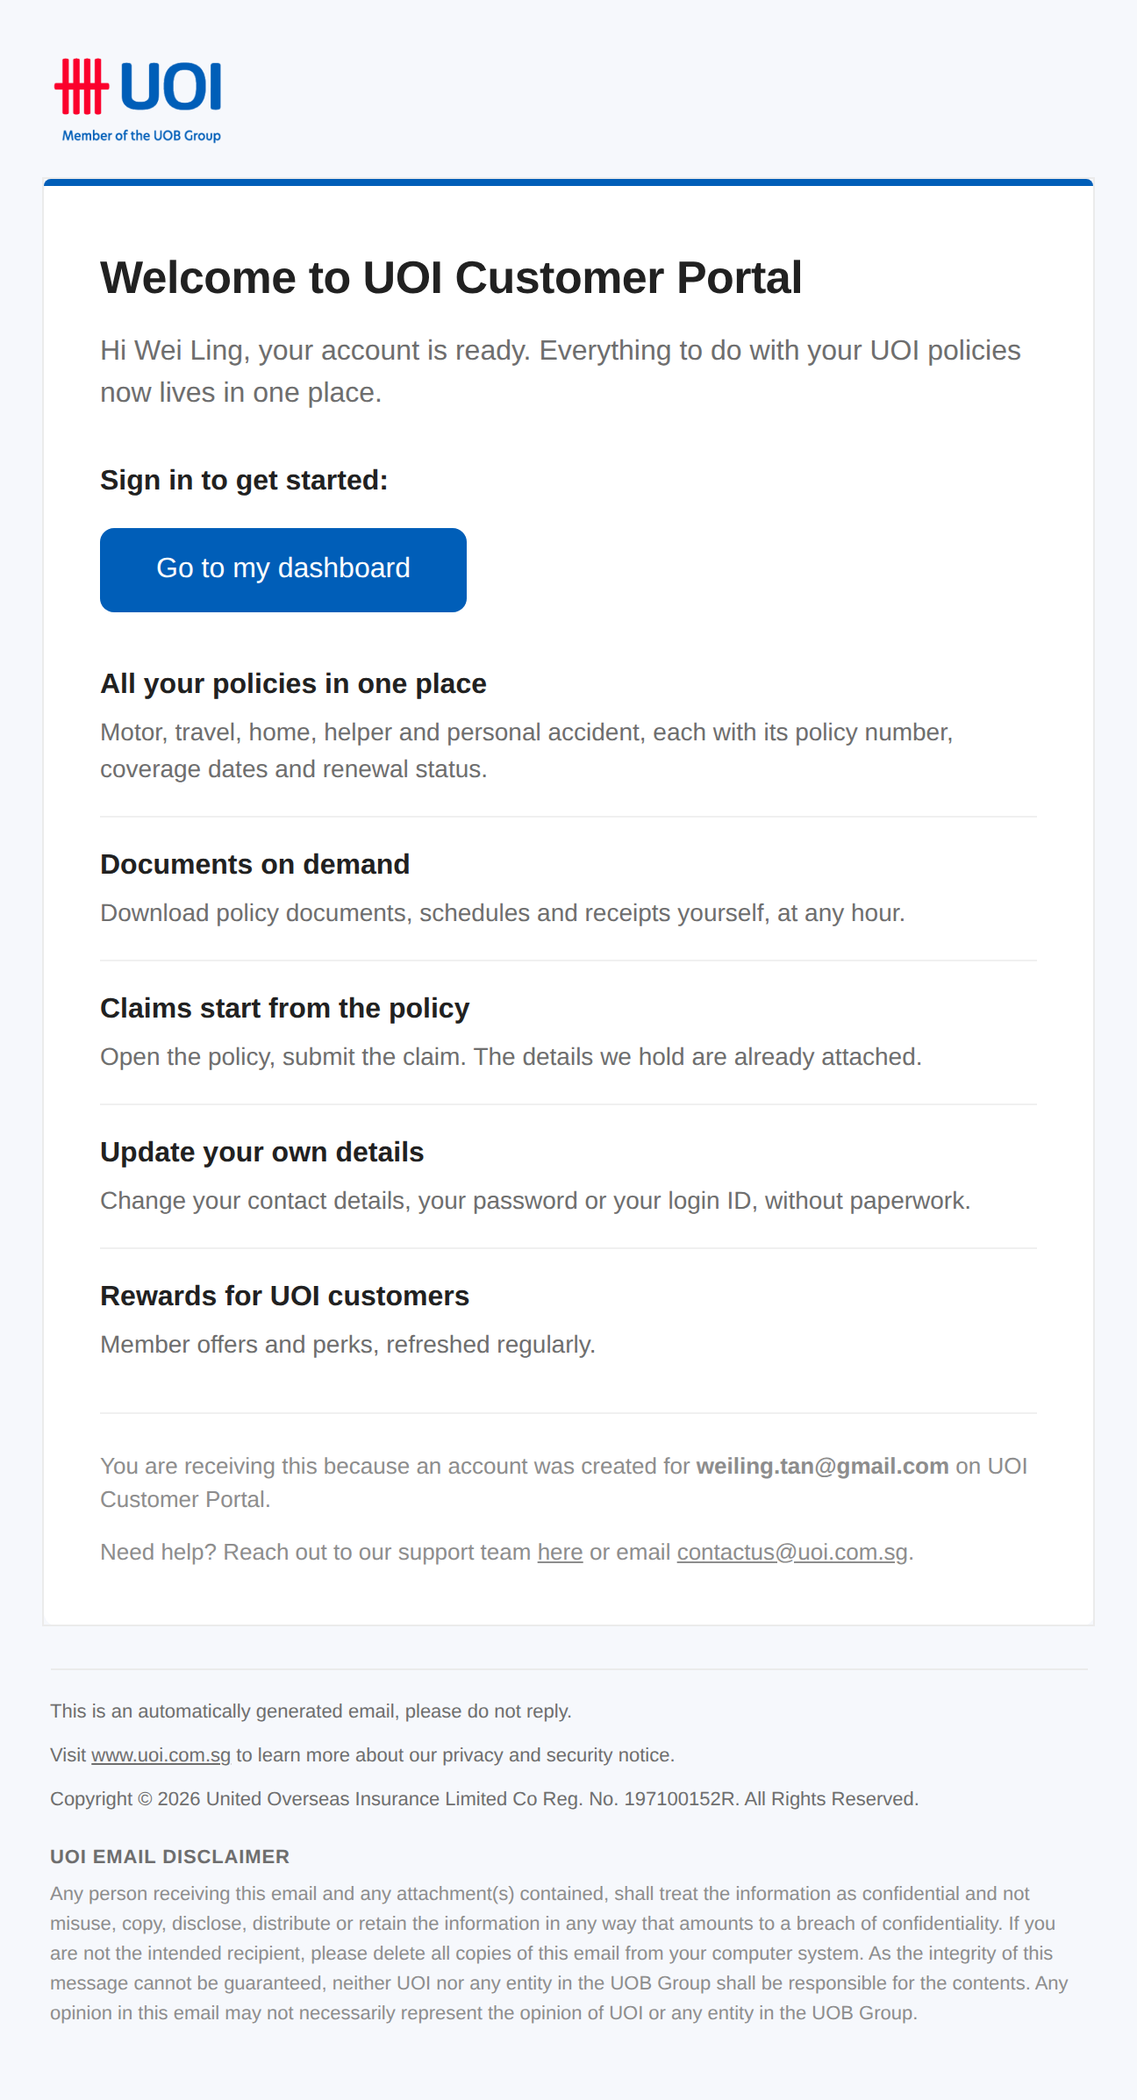
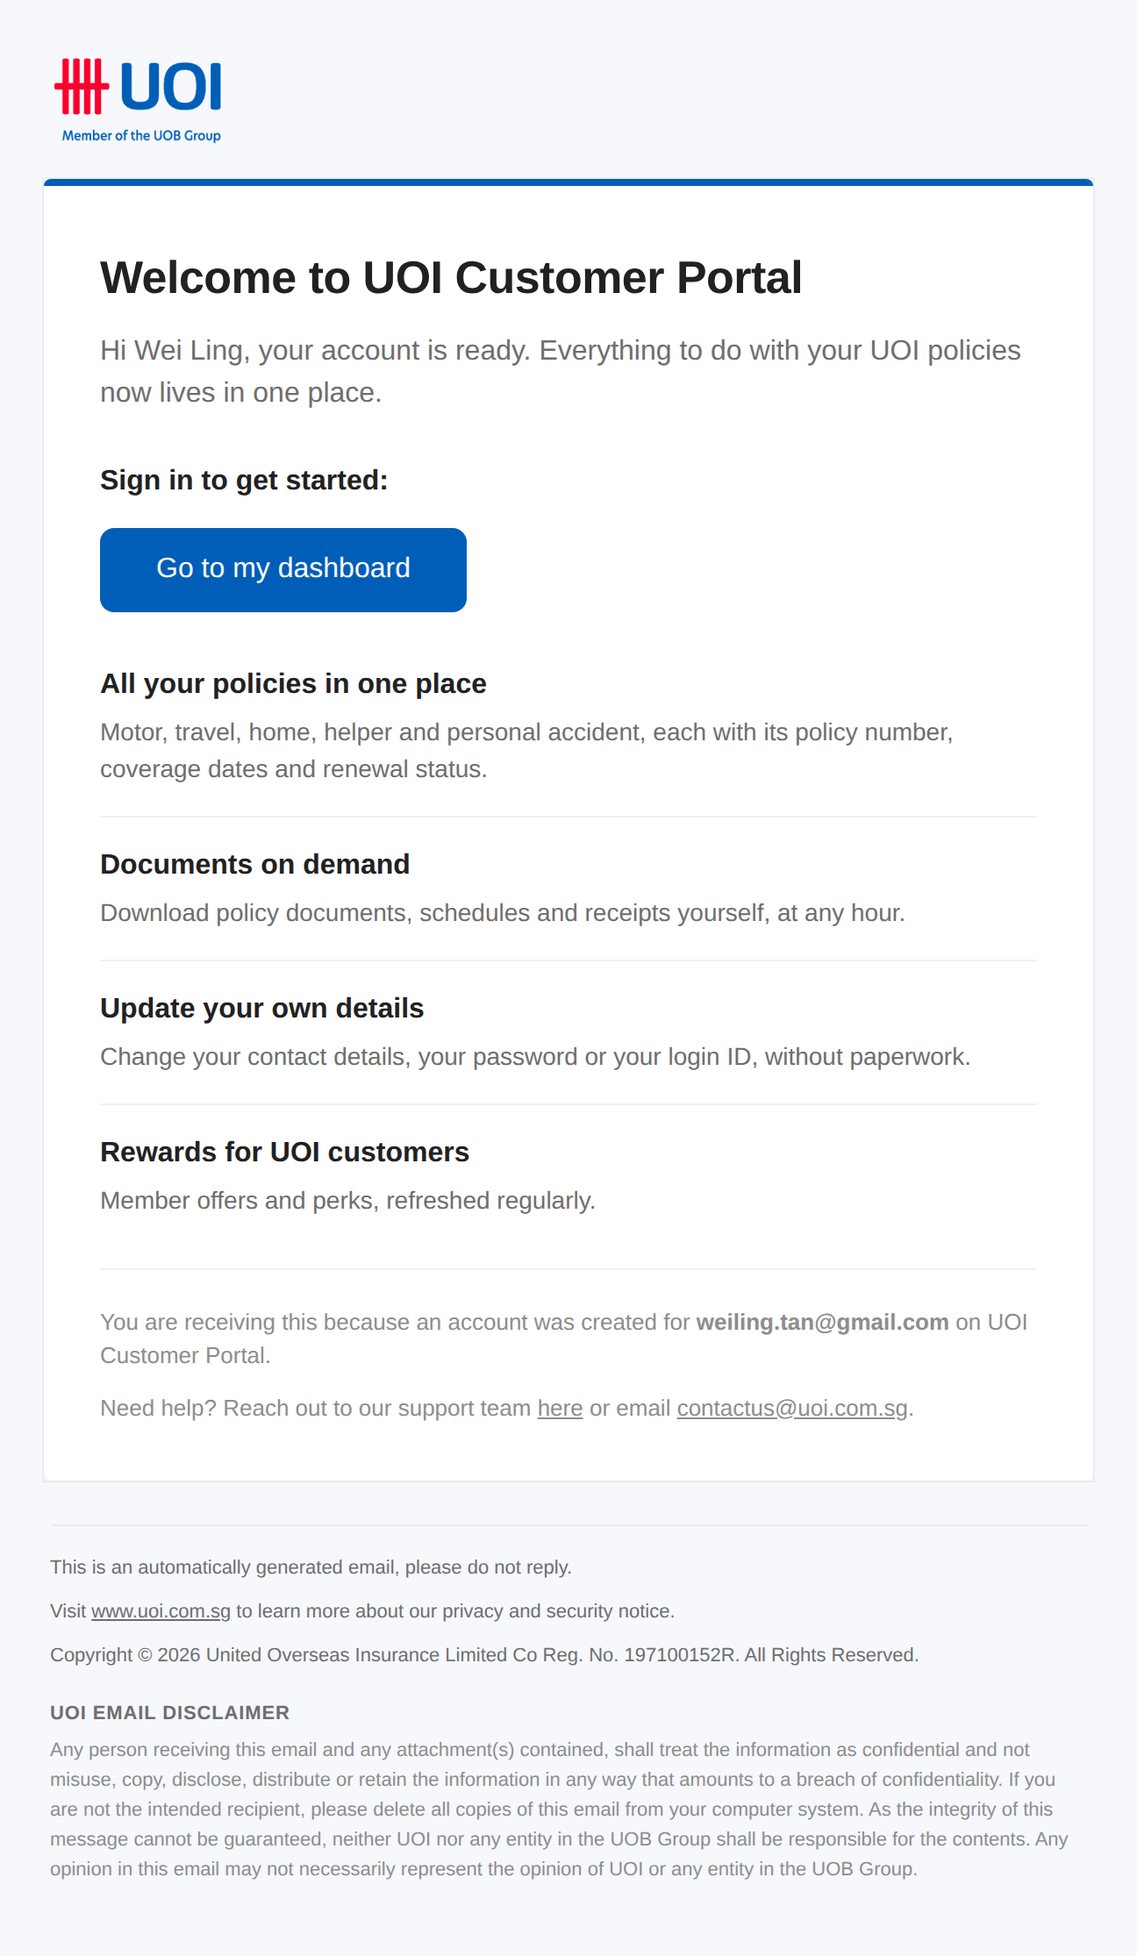
Point the support link at WhatsApp; drop the claims benefit
The 'here' link in all five emails now opens the same WhatsApp support line the
portal uses (AuthUI.tsx SUPPORT_URL), replacing the guessed /help path.
Ampersands are escaped, since these files declare XHTML and a raw & in an
attribute is invalid there.

Removes the 'Claims start from the policy' row from the welcome email, leaving
four benefits.

Claude-Session: https://claude.ai/code/session_01Ugy4CsjXngQbuZH3dm3bHN

diff --git a/emails/preview.html b/emails/preview.html
@@ -353,7 +353,7 @@
                 <tr>
                   <td style=&quot;border-top:1px solid #F0F0F0; padding-top:20px;&quot;>
                 <p style=&quot;margin:0px 0 0 0; font-family:'Noto Sans', -apple-system, BlinkMacSystemFont, 'Segoe UI', Arial, Helvetica, sans-serif;
-                          font-size:13px; line-height:1.5; color:#8D8D8D;&quot;>Need help? Reach out to our support team <a href=&quot;https://portal.uoi.com.sg/help&quot; style=&quot;color:#8D8D8D; text-decoration:underline;&quot;>here</a> or email <a href=&quot;mailto:contactus@uoi.com.sg&quot; style=&quot;color:#8D8D8D; text-decoration:underline;&quot;>contactus@uoi.com.sg</a>.</p>
+                          font-size:13px; line-height:1.5; color:#8D8D8D;&quot;>Need help? Reach out to our support team <a href=&quot;https://api.whatsapp.com/send/?phone=6580814843&amp;text&amp;type=phone_number&amp;app_absent=0&quot; style=&quot;color:#8D8D8D; text-decoration:underline;&quot;>here</a> or email <a href=&quot;mailto:contactus@uoi.com.sg&quot; style=&quot;color:#8D8D8D; text-decoration:underline;&quot;>contactus@uoi.com.sg</a>.</p>
                   </td>
                 </tr>
               </table>
@@ -543,7 +543,7 @@
                 <p style=&quot;margin:0px 0 0 0; font-family:'Noto Sans', -apple-system, BlinkMacSystemFont, 'Segoe UI', Arial, Helvetica, sans-serif;
                           font-size:13px; line-height:1.5; color:#8D8D8D;&quot;>Button not working? Paste this into your browser:<br /><span style=&quot;color:#0D6EFD; word-break:break-all;&quot;>https://portal.uoi.com.sg/reset?t=a7f3c2e9</span></p>
                 <p style=&quot;margin:10px 0 0 0; font-family:'Noto Sans', -apple-system, BlinkMacSystemFont, 'Segoe UI', Arial, Helvetica, sans-serif;
-                          font-size:13px; line-height:1.5; color:#8D8D8D;&quot;>Need help? Reach out to our support team <a href=&quot;https://portal.uoi.com.sg/help&quot; style=&quot;color:#8D8D8D; text-decoration:underline;&quot;>here</a> or email <a href=&quot;mailto:contactus@uoi.com.sg&quot; style=&quot;color:#8D8D8D; text-decoration:underline;&quot;>contactus@uoi.com.sg</a>.</p>
+                          font-size:13px; line-height:1.5; color:#8D8D8D;&quot;>Need help? Reach out to our support team <a href=&quot;https://api.whatsapp.com/send/?phone=6580814843&amp;text&amp;type=phone_number&amp;app_absent=0&quot; style=&quot;color:#8D8D8D; text-decoration:underline;&quot;>here</a> or email <a href=&quot;mailto:contactus@uoi.com.sg&quot; style=&quot;color:#8D8D8D; text-decoration:underline;&quot;>contactus@uoi.com.sg</a>.</p>
                   </td>
                 </tr>
               </table>
@@ -712,7 +712,7 @@
                 <p style=&quot;margin:0px 0 0 0; font-family:'Noto Sans', -apple-system, BlinkMacSystemFont, 'Segoe UI', Arial, Helvetica, sans-serif;
                           font-size:13px; line-height:1.5; color:#8D8D8D;&quot;>If you didn't sign up for UOI Customer Portal, ignore this email. No account will be created.</p>
                 <p style=&quot;margin:10px 0 0 0; font-family:'Noto Sans', -apple-system, BlinkMacSystemFont, 'Segoe UI', Arial, Helvetica, sans-serif;
-                          font-size:13px; line-height:1.5; color:#8D8D8D;&quot;>Need help? Reach out to our support team <a href=&quot;https://portal.uoi.com.sg/help&quot; style=&quot;color:#8D8D8D; text-decoration:underline;&quot;>here</a> or email <a href=&quot;mailto:contactus@uoi.com.sg&quot; style=&quot;color:#8D8D8D; text-decoration:underline;&quot;>contactus@uoi.com.sg</a>.</p>
+                          font-size:13px; line-height:1.5; color:#8D8D8D;&quot;>Need help? Reach out to our support team <a href=&quot;https://api.whatsapp.com/send/?phone=6580814843&amp;text&amp;type=phone_number&amp;app_absent=0&quot; style=&quot;color:#8D8D8D; text-decoration:underline;&quot;>here</a> or email <a href=&quot;mailto:contactus@uoi.com.sg&quot; style=&quot;color:#8D8D8D; text-decoration:underline;&quot;>contactus@uoi.com.sg</a>.</p>
                   </td>
                 </tr>
               </table>
@@ -891,7 +891,7 @@
                 <p style=&quot;margin:0px 0 0 0; font-family:'Noto Sans', -apple-system, BlinkMacSystemFont, 'Segoe UI', Arial, Helvetica, sans-serif;
                           font-size:13px; line-height:1.5; color:#8D8D8D;&quot;>Until you confirm, keep signing in with your current login ID.</p>
                 <p style=&quot;margin:10px 0 0 0; font-family:'Noto Sans', -apple-system, BlinkMacSystemFont, 'Segoe UI', Arial, Helvetica, sans-serif;
-                          font-size:13px; line-height:1.5; color:#8D8D8D;&quot;>Need help? Reach out to our support team <a href=&quot;https://portal.uoi.com.sg/help&quot; style=&quot;color:#8D8D8D; text-decoration:underline;&quot;>here</a> or email <a href=&quot;mailto:contactus@uoi.com.sg&quot; style=&quot;color:#8D8D8D; text-decoration:underline;&quot;>contactus@uoi.com.sg</a>.</p>
+                          font-size:13px; line-height:1.5; color:#8D8D8D;&quot;>Need help? Reach out to our support team <a href=&quot;https://api.whatsapp.com/send/?phone=6580814843&amp;text&amp;type=phone_number&amp;app_absent=0&quot; style=&quot;color:#8D8D8D; text-decoration:underline;&quot;>here</a> or email <a href=&quot;mailto:contactus@uoi.com.sg&quot; style=&quot;color:#8D8D8D; text-decoration:underline;&quot;>contactus@uoi.com.sg</a>.</p>
                   </td>
                 </tr>
               </table>
@@ -1083,15 +1083,6 @@
                   <td style=&quot;border-top:1px solid #F0F0F0;
                              padding:16px 0 16px 0;&quot;>
                     <p style=&quot;margin:0; font-family:'Noto Sans', -apple-system, BlinkMacSystemFont, 'Segoe UI', Arial, Helvetica, sans-serif; font-size:16px; line-height:1.5;
-                              font-weight:600; color:#212121;&quot;>Claims start from the policy</p>
-                    <p style=&quot;margin:4px 0 0 0; font-family:'Noto Sans', -apple-system, BlinkMacSystemFont, 'Segoe UI', Arial, Helvetica, sans-serif; font-size:14px;
-                              line-height:1.5; color:#6E6E6E;&quot;>Open the policy, submit the claim. The details we hold are already attached.</p>
-                  </td>
-                </tr>
-                <tr>
-                  <td style=&quot;border-top:1px solid #F0F0F0;
-                             padding:16px 0 16px 0;&quot;>
-                    <p style=&quot;margin:0; font-family:'Noto Sans', -apple-system, BlinkMacSystemFont, 'Segoe UI', Arial, Helvetica, sans-serif; font-size:16px; line-height:1.5;
                               font-weight:600; color:#212121;&quot;>Update your own details</p>
                     <p style=&quot;margin:4px 0 0 0; font-family:'Noto Sans', -apple-system, BlinkMacSystemFont, 'Segoe UI', Arial, Helvetica, sans-serif; font-size:14px;
                               line-height:1.5; color:#6E6E6E;&quot;>Change your contact details, your password or your login ID, without paperwork.</p>
@@ -1116,7 +1107,7 @@
                 <p style=&quot;margin:0px 0 0 0; font-family:'Noto Sans', -apple-system, BlinkMacSystemFont, 'Segoe UI', Arial, Helvetica, sans-serif;
                           font-size:13px; line-height:1.5; color:#8D8D8D;&quot;>You are receiving this because an account was created for <strong>weiling.tan@gmail.com</strong> on UOI Customer Portal.</p>
                 <p style=&quot;margin:10px 0 0 0; font-family:'Noto Sans', -apple-system, BlinkMacSystemFont, 'Segoe UI', Arial, Helvetica, sans-serif;
-                          font-size:13px; line-height:1.5; color:#8D8D8D;&quot;>Need help? Reach out to our support team <a href=&quot;https://portal.uoi.com.sg/help&quot; style=&quot;color:#8D8D8D; text-decoration:underline;&quot;>here</a> or email <a href=&quot;mailto:contactus@uoi.com.sg&quot; style=&quot;color:#8D8D8D; text-decoration:underline;&quot;>contactus@uoi.com.sg</a>.</p>
+                          font-size:13px; line-height:1.5; color:#8D8D8D;&quot;>Need help? Reach out to our support team <a href=&quot;https://api.whatsapp.com/send/?phone=6580814843&amp;text&amp;type=phone_number&amp;app_absent=0&quot; style=&quot;color:#8D8D8D; text-decoration:underline;&quot;>here</a> or email <a href=&quot;mailto:contactus@uoi.com.sg&quot; style=&quot;color:#8D8D8D; text-decoration:underline;&quot;>contactus@uoi.com.sg</a>.</p>
                   </td>
                 </tr>
               </table>

diff --git a/emails/05-welcome.html b/emails/05-welcome.html
@@ -126,15 +126,6 @@
                   <td style="border-top:1px solid #F0F0F0;
                              padding:16px 0 16px 0;">
                     <p style="margin:0; font-family:'Noto Sans', -apple-system, BlinkMacSystemFont, 'Segoe UI', Arial, Helvetica, sans-serif; font-size:16px; line-height:1.5;
-                              font-weight:600; color:#212121;">Claims start from the policy</p>
-                    <p style="margin:4px 0 0 0; font-family:'Noto Sans', -apple-system, BlinkMacSystemFont, 'Segoe UI', Arial, Helvetica, sans-serif; font-size:14px;
-                              line-height:1.5; color:#6E6E6E;">Open the policy, submit the claim. The details we hold are already attached.</p>
-                  </td>
-                </tr>
-                <tr>
-                  <td style="border-top:1px solid #F0F0F0;
-                             padding:16px 0 16px 0;">
-                    <p style="margin:0; font-family:'Noto Sans', -apple-system, BlinkMacSystemFont, 'Segoe UI', Arial, Helvetica, sans-serif; font-size:16px; line-height:1.5;
                               font-weight:600; color:#212121;">Update your own details</p>
                     <p style="margin:4px 0 0 0; font-family:'Noto Sans', -apple-system, BlinkMacSystemFont, 'Segoe UI', Arial, Helvetica, sans-serif; font-size:14px;
                               line-height:1.5; color:#6E6E6E;">Change your contact details, your password or your login ID, without paperwork.</p>
@@ -159,7 +150,7 @@
                 <p style="margin:0px 0 0 0; font-family:'Noto Sans', -apple-system, BlinkMacSystemFont, 'Segoe UI', Arial, Helvetica, sans-serif;
                           font-size:13px; line-height:1.5; color:#8D8D8D;">You are receiving this because an account was created for <strong>{{login_id}}</strong> on UOI Customer Portal.</p>
                 <p style="margin:10px 0 0 0; font-family:'Noto Sans', -apple-system, BlinkMacSystemFont, 'Segoe UI', Arial, Helvetica, sans-serif;
-                          font-size:13px; line-height:1.5; color:#8D8D8D;">Need help? Reach out to our support team <a href="https://portal.uoi.com.sg/help" style="color:#8D8D8D; text-decoration:underline;">here</a> or email <a href="mailto:contactus@uoi.com.sg" style="color:#8D8D8D; text-decoration:underline;">contactus@uoi.com.sg</a>.</p>
+                          font-size:13px; line-height:1.5; color:#8D8D8D;">Need help? Reach out to our support team <a href="https://api.whatsapp.com/send/?phone=6580814843&amp;text&amp;type=phone_number&amp;app_absent=0" style="color:#8D8D8D; text-decoration:underline;">here</a> or email <a href="mailto:contactus@uoi.com.sg" style="color:#8D8D8D; text-decoration:underline;">contactus@uoi.com.sg</a>.</p>
                   </td>
                 </tr>
               </table>

diff --git a/emails/02-forgot-password-reset.html b/emails/02-forgot-password-reset.html
@@ -124,7 +124,7 @@
                 <p style="margin:0px 0 0 0; font-family:'Noto Sans', -apple-system, BlinkMacSystemFont, 'Segoe UI', Arial, Helvetica, sans-serif;
                           font-size:13px; line-height:1.5; color:#8D8D8D;">Button not working? Paste this into your browser:<br /><span style="color:#0D6EFD; word-break:break-all;">{{reset_url}}</span></p>
                 <p style="margin:10px 0 0 0; font-family:'Noto Sans', -apple-system, BlinkMacSystemFont, 'Segoe UI', Arial, Helvetica, sans-serif;
-                          font-size:13px; line-height:1.5; color:#8D8D8D;">Need help? Reach out to our support team <a href="https://portal.uoi.com.sg/help" style="color:#8D8D8D; text-decoration:underline;">here</a> or email <a href="mailto:contactus@uoi.com.sg" style="color:#8D8D8D; text-decoration:underline;">contactus@uoi.com.sg</a>.</p>
+                          font-size:13px; line-height:1.5; color:#8D8D8D;">Need help? Reach out to our support team <a href="https://api.whatsapp.com/send/?phone=6580814843&amp;text&amp;type=phone_number&amp;app_absent=0" style="color:#8D8D8D; text-decoration:underline;">here</a> or email <a href="mailto:contactus@uoi.com.sg" style="color:#8D8D8D; text-decoration:underline;">contactus@uoi.com.sg</a>.</p>
                   </td>
                 </tr>
               </table>

diff --git a/emails/03-registration-otp.html b/emails/03-registration-otp.html
@@ -103,7 +103,7 @@
                 <p style="margin:0px 0 0 0; font-family:'Noto Sans', -apple-system, BlinkMacSystemFont, 'Segoe UI', Arial, Helvetica, sans-serif;
                           font-size:13px; line-height:1.5; color:#8D8D8D;">If you didn't sign up for UOI Customer Portal, ignore this email. No account will be created.</p>
                 <p style="margin:10px 0 0 0; font-family:'Noto Sans', -apple-system, BlinkMacSystemFont, 'Segoe UI', Arial, Helvetica, sans-serif;
-                          font-size:13px; line-height:1.5; color:#8D8D8D;">Need help? Reach out to our support team <a href="https://portal.uoi.com.sg/help" style="color:#8D8D8D; text-decoration:underline;">here</a> or email <a href="mailto:contactus@uoi.com.sg" style="color:#8D8D8D; text-decoration:underline;">contactus@uoi.com.sg</a>.</p>
+                          font-size:13px; line-height:1.5; color:#8D8D8D;">Need help? Reach out to our support team <a href="https://api.whatsapp.com/send/?phone=6580814843&amp;text&amp;type=phone_number&amp;app_absent=0" style="color:#8D8D8D; text-decoration:underline;">here</a> or email <a href="mailto:contactus@uoi.com.sg" style="color:#8D8D8D; text-decoration:underline;">contactus@uoi.com.sg</a>.</p>
                   </td>
                 </tr>
               </table>

diff --git a/emails/04-change-login-id-otp.html b/emails/04-change-login-id-otp.html
@@ -113,7 +113,7 @@
                 <p style="margin:0px 0 0 0; font-family:'Noto Sans', -apple-system, BlinkMacSystemFont, 'Segoe UI', Arial, Helvetica, sans-serif;
                           font-size:13px; line-height:1.5; color:#8D8D8D;">Until you confirm, keep signing in with your current login ID.</p>
                 <p style="margin:10px 0 0 0; font-family:'Noto Sans', -apple-system, BlinkMacSystemFont, 'Segoe UI', Arial, Helvetica, sans-serif;
-                          font-size:13px; line-height:1.5; color:#8D8D8D;">Need help? Reach out to our support team <a href="https://portal.uoi.com.sg/help" style="color:#8D8D8D; text-decoration:underline;">here</a> or email <a href="mailto:contactus@uoi.com.sg" style="color:#8D8D8D; text-decoration:underline;">contactus@uoi.com.sg</a>.</p>
+                          font-size:13px; line-height:1.5; color:#8D8D8D;">Need help? Reach out to our support team <a href="https://api.whatsapp.com/send/?phone=6580814843&amp;text&amp;type=phone_number&amp;app_absent=0" style="color:#8D8D8D; text-decoration:underline;">here</a> or email <a href="mailto:contactus@uoi.com.sg" style="color:#8D8D8D; text-decoration:underline;">contactus@uoi.com.sg</a>.</p>
                   </td>
                 </tr>
               </table>

diff --git a/emails/01-login-otp.html b/emails/01-login-otp.html
@@ -109,7 +109,7 @@
                 <tr>
                   <td style="border-top:1px solid #F0F0F0; padding-top:20px;">
                 <p style="margin:0px 0 0 0; font-family:'Noto Sans', -apple-system, BlinkMacSystemFont, 'Segoe UI', Arial, Helvetica, sans-serif;
-                          font-size:13px; line-height:1.5; color:#8D8D8D;">Need help? Reach out to our support team <a href="https://portal.uoi.com.sg/help" style="color:#8D8D8D; text-decoration:underline;">here</a> or email <a href="mailto:contactus@uoi.com.sg" style="color:#8D8D8D; text-decoration:underline;">contactus@uoi.com.sg</a>.</p>
+                          font-size:13px; line-height:1.5; color:#8D8D8D;">Need help? Reach out to our support team <a href="https://api.whatsapp.com/send/?phone=6580814843&amp;text&amp;type=phone_number&amp;app_absent=0" style="color:#8D8D8D; text-decoration:underline;">here</a> or email <a href="mailto:contactus@uoi.com.sg" style="color:#8D8D8D; text-decoration:underline;">contactus@uoi.com.sg</a>.</p>
                   </td>
                 </tr>
               </table>

diff --git a/emails/build.py b/emails/build.py
@@ -40,8 +40,11 @@ TERMS_URL = "https://www.uoi.com.sg/uoi/important-information.page"
 PRIVACY_URL = "https://www.uoi.com.sg/privacy.page"
 UOI_URL = "https://www.uoi.com.sg"
 PORTAL_URL = "https://portal.uoi.com.sg"
-# Confirm the production host before sending; /help is the portal route (App.tsx:119).
-SUPPORT_URL = "https://portal.uoi.com.sg/help"
+# Same WhatsApp support line the portal uses (AuthUI.tsx SUPPORT_URL).
+# Ampersands escaped: these files declare XHTML, where a raw & in an attribute
+# is invalid and some ESP parsers reject it.
+SUPPORT_URL = ("https://api.whatsapp.com/send/?phone=6580814843"
+               "&amp;text&amp;type=phone_number&amp;app_absent=0")
 SUPPORT_EMAIL = "contactus@uoi.com.sg"
 SUPPORT_TEL = "+6562227733"
 SUPPORT_TEL_DISPLAY = "(+65) 6222 7733"
@@ -484,8 +487,6 @@ add(
              "number, coverage dates and renewal status."),
             ("Documents on demand",
              "Download policy documents, schedules and receipts yourself, at any hour."),
-            ("Claims start from the policy",
-             "Open the policy, submit the claim. The details we hold are already attached."),
             ("Update your own details",
              "Change your contact details, your password or your login ID, "
              "without paperwork."),

diff --git a/emails/copy.md b/emails/copy.md
@@ -97,9 +97,8 @@ Benefit rows, each a bold title and a body line:
 |---|---|---|
 | 1 | All your policies in one place | Motor, travel, home, helper and personal accident, each with its policy number, coverage dates and renewal status. |
 | 2 | Documents on demand | Download policy documents, schedules and receipts yourself, at any hour. |
-| 3 | Claims start from the policy | Open the policy, submit the claim. The details we hold are already attached. |
-| 4 | Update your own details | Change your contact details, your password or your login ID, without paperwork. |
-| 5 | Rewards for UOI customers | Member offers and perks, refreshed regularly. |
+| 3 | Update your own details | Change your contact details, your password or your login ID, without paperwork. |
+| 4 | Rewards for UOI customers | Member offers and perks, refreshed regularly. |
 
 Closing:
 
@@ -131,6 +130,7 @@ Edited once in `shell()` in `build.py`, so a change lands on all five at once.
 ## Notes on editing
 
 - `[square brackets]` mark link text. The destination is set in `build.py`, not here.
+  `[here]` opens the portal's WhatsApp support line.
 - **Bold** in the tables is bold in the email.
 - Tier 1 is the bold line introducing the next action. Tier 2 is the tinted box.
   Tier 3 is the muted fine print behind a hairline rule. Moving a line between

diff --git a/emails/README.md b/emails/README.md
@@ -140,7 +140,9 @@ per-template copy is in the `TEMPLATES` section near the bottom.
 | `{{reset_url}}` | 2 |
 | `{{change_password_url}}` | 1 |
 
-Template 5 links to `PORTAL_URL`, a constant rather than a merge field.
+Template 5's button links to `PORTAL_URL`; the `here` support link in all five
+points at `SUPPORT_URL`, the same WhatsApp line the portal uses
+(`AuthUI.tsx`). Both are constants, not merge fields.
 
 3. **Send a plain-text alternative.** Transactional mail without a `text/plain`
    part takes a spam-score hit. The code and the URL are all it needs to contain.
